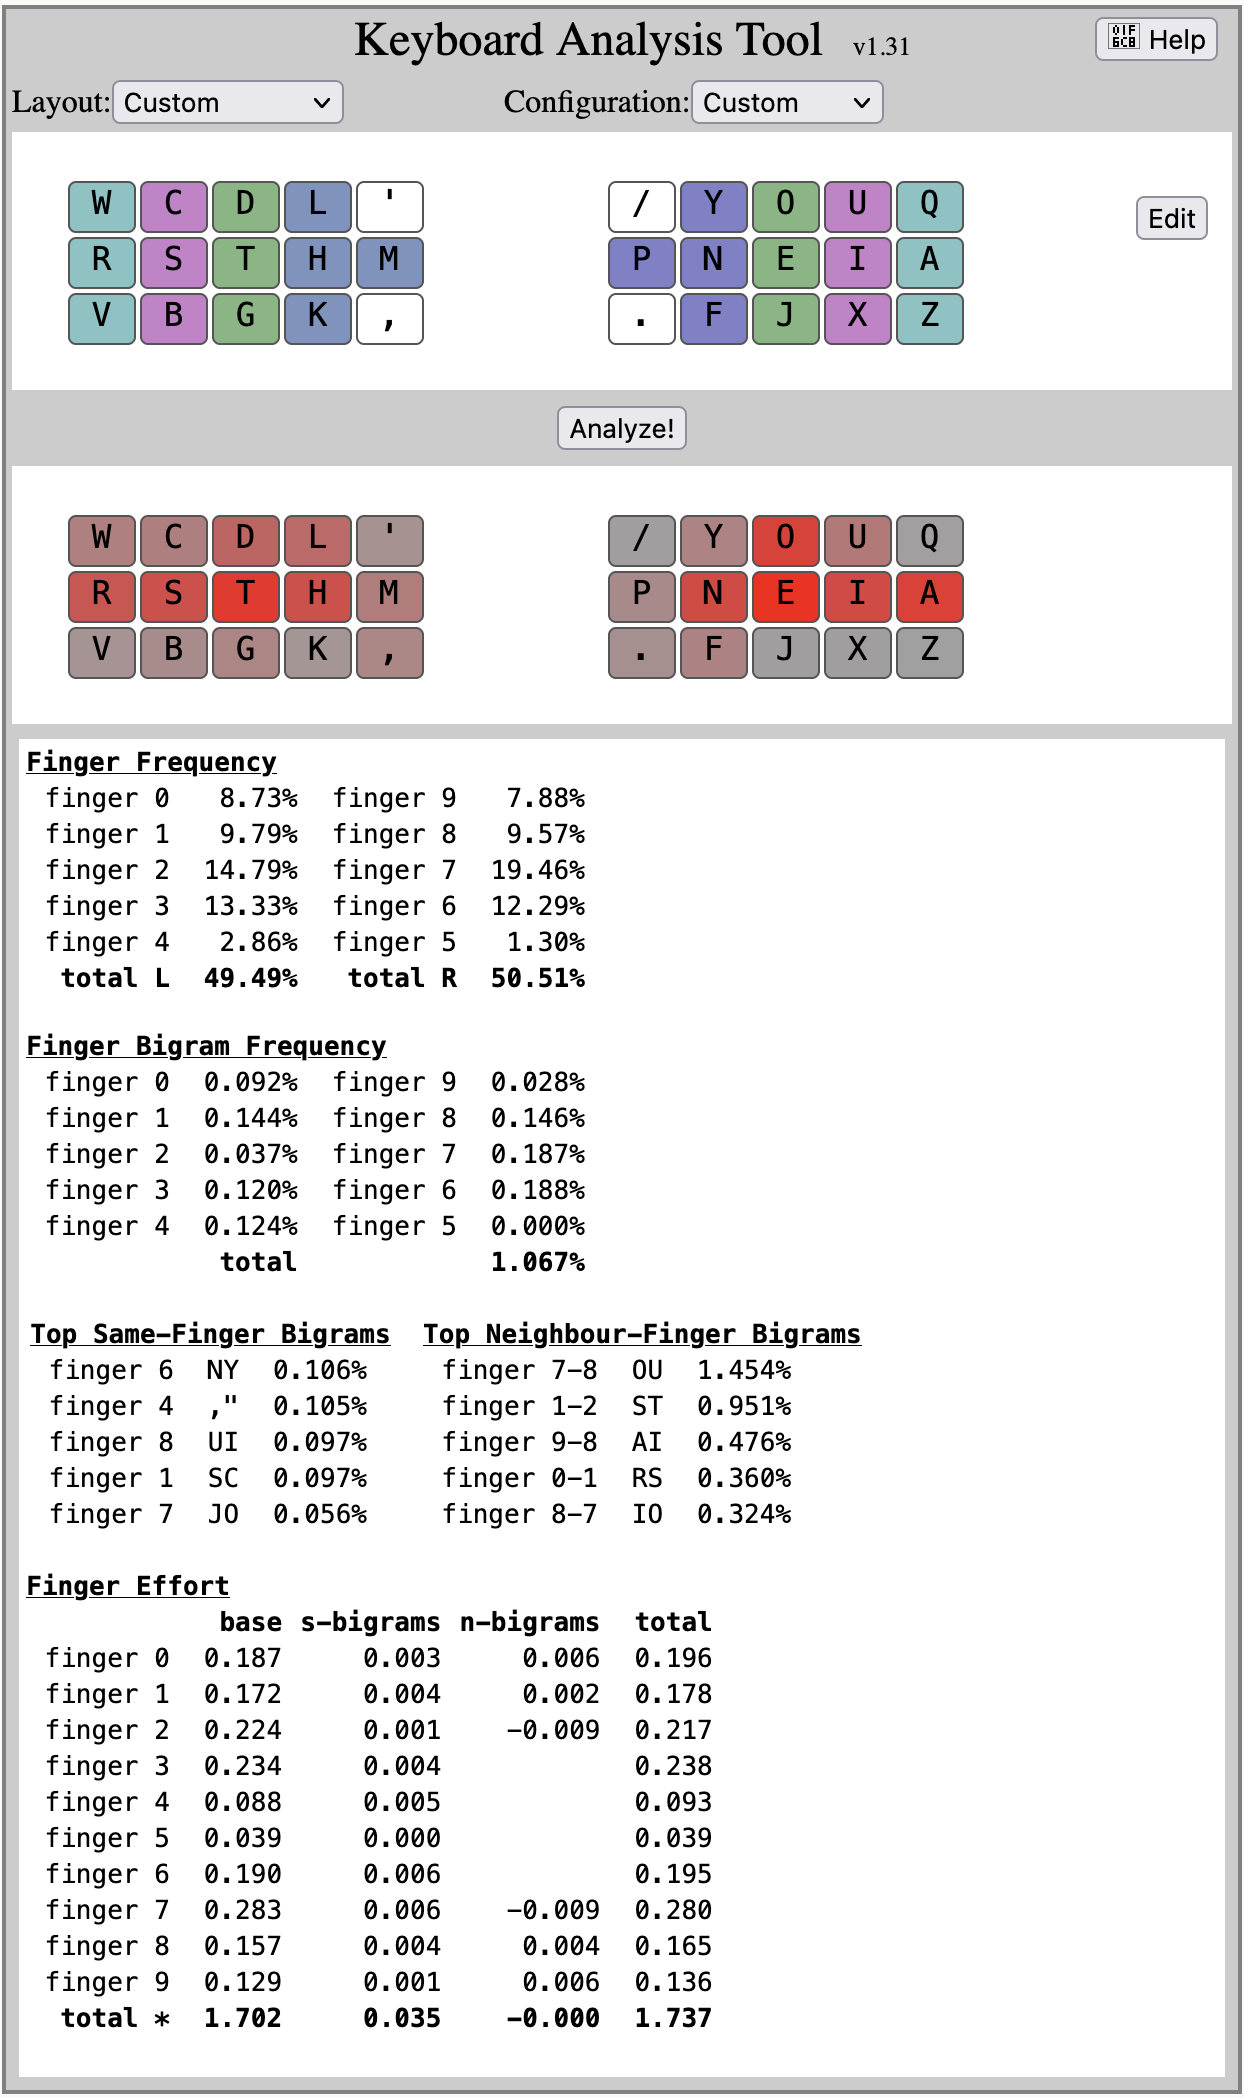
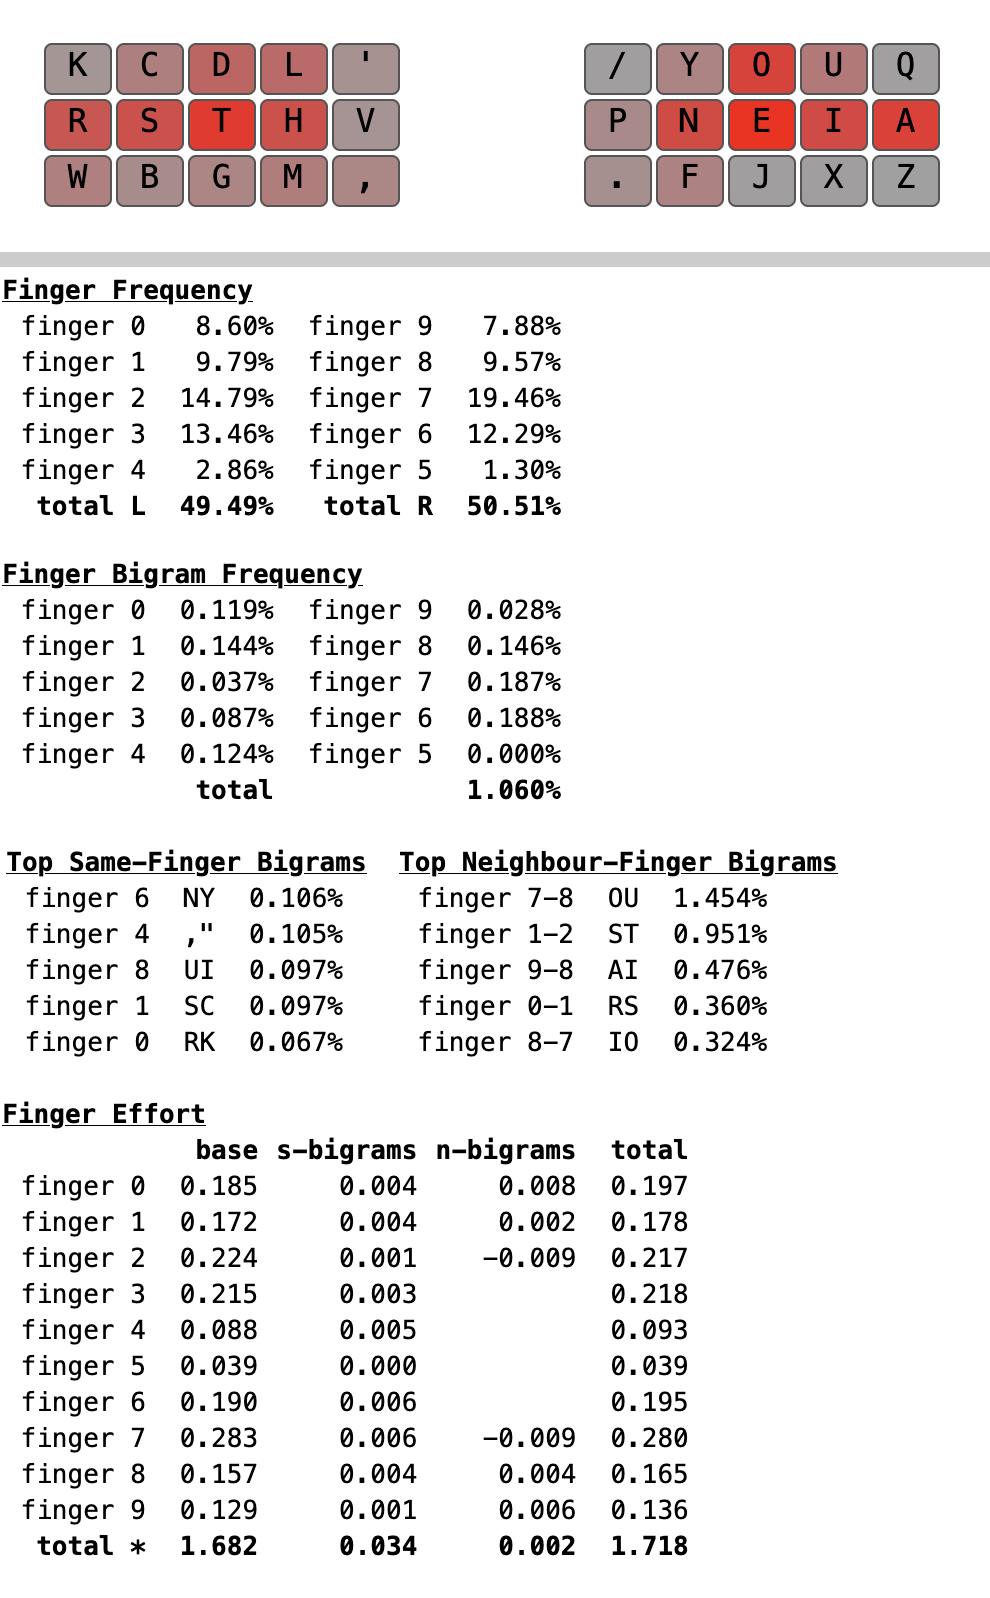
Update layout

diff --git a/README.md b/README.md
@@ -3,9 +3,9 @@
 This is an alternate keyboard layout initially based on the work done in [MTGAP](https://mathematicalmulticore.wordpress.com/the-keyboard-layout-project/) and [CTGAP](https://github.com/CTGAP/ctgap-keyboard-layout), with changes inspired by symmetric punctuation in the center columns as seen in [Engram](https://engram.dev/) and [Halmak](https://github.com/MadRabbit/halmak).
 
 ```txt
-w c d l ' / y o u q
-r s t h m p n e i a
-v b g k , . f j x z
+k c d l ' / y o u q
+r s t h v p n e i a
+w b g m , . f j x z
 ```
 
 ## Analysis
@@ -17,5 +17,5 @@ v b g k , . f j x z
 
 ### KLA
 
-[KLA Analyzer](https://kla.keyboard-design.com) using the Alice in Wonderland corpus and the KLA JSON included in this repo.
+[KLA Analyzer](https://klanext.keyboard-design.com) using the Alice in Wonderland corpus and the KLA JSON included in this repo.
 ![KLA Analyzer](KLA.png)
